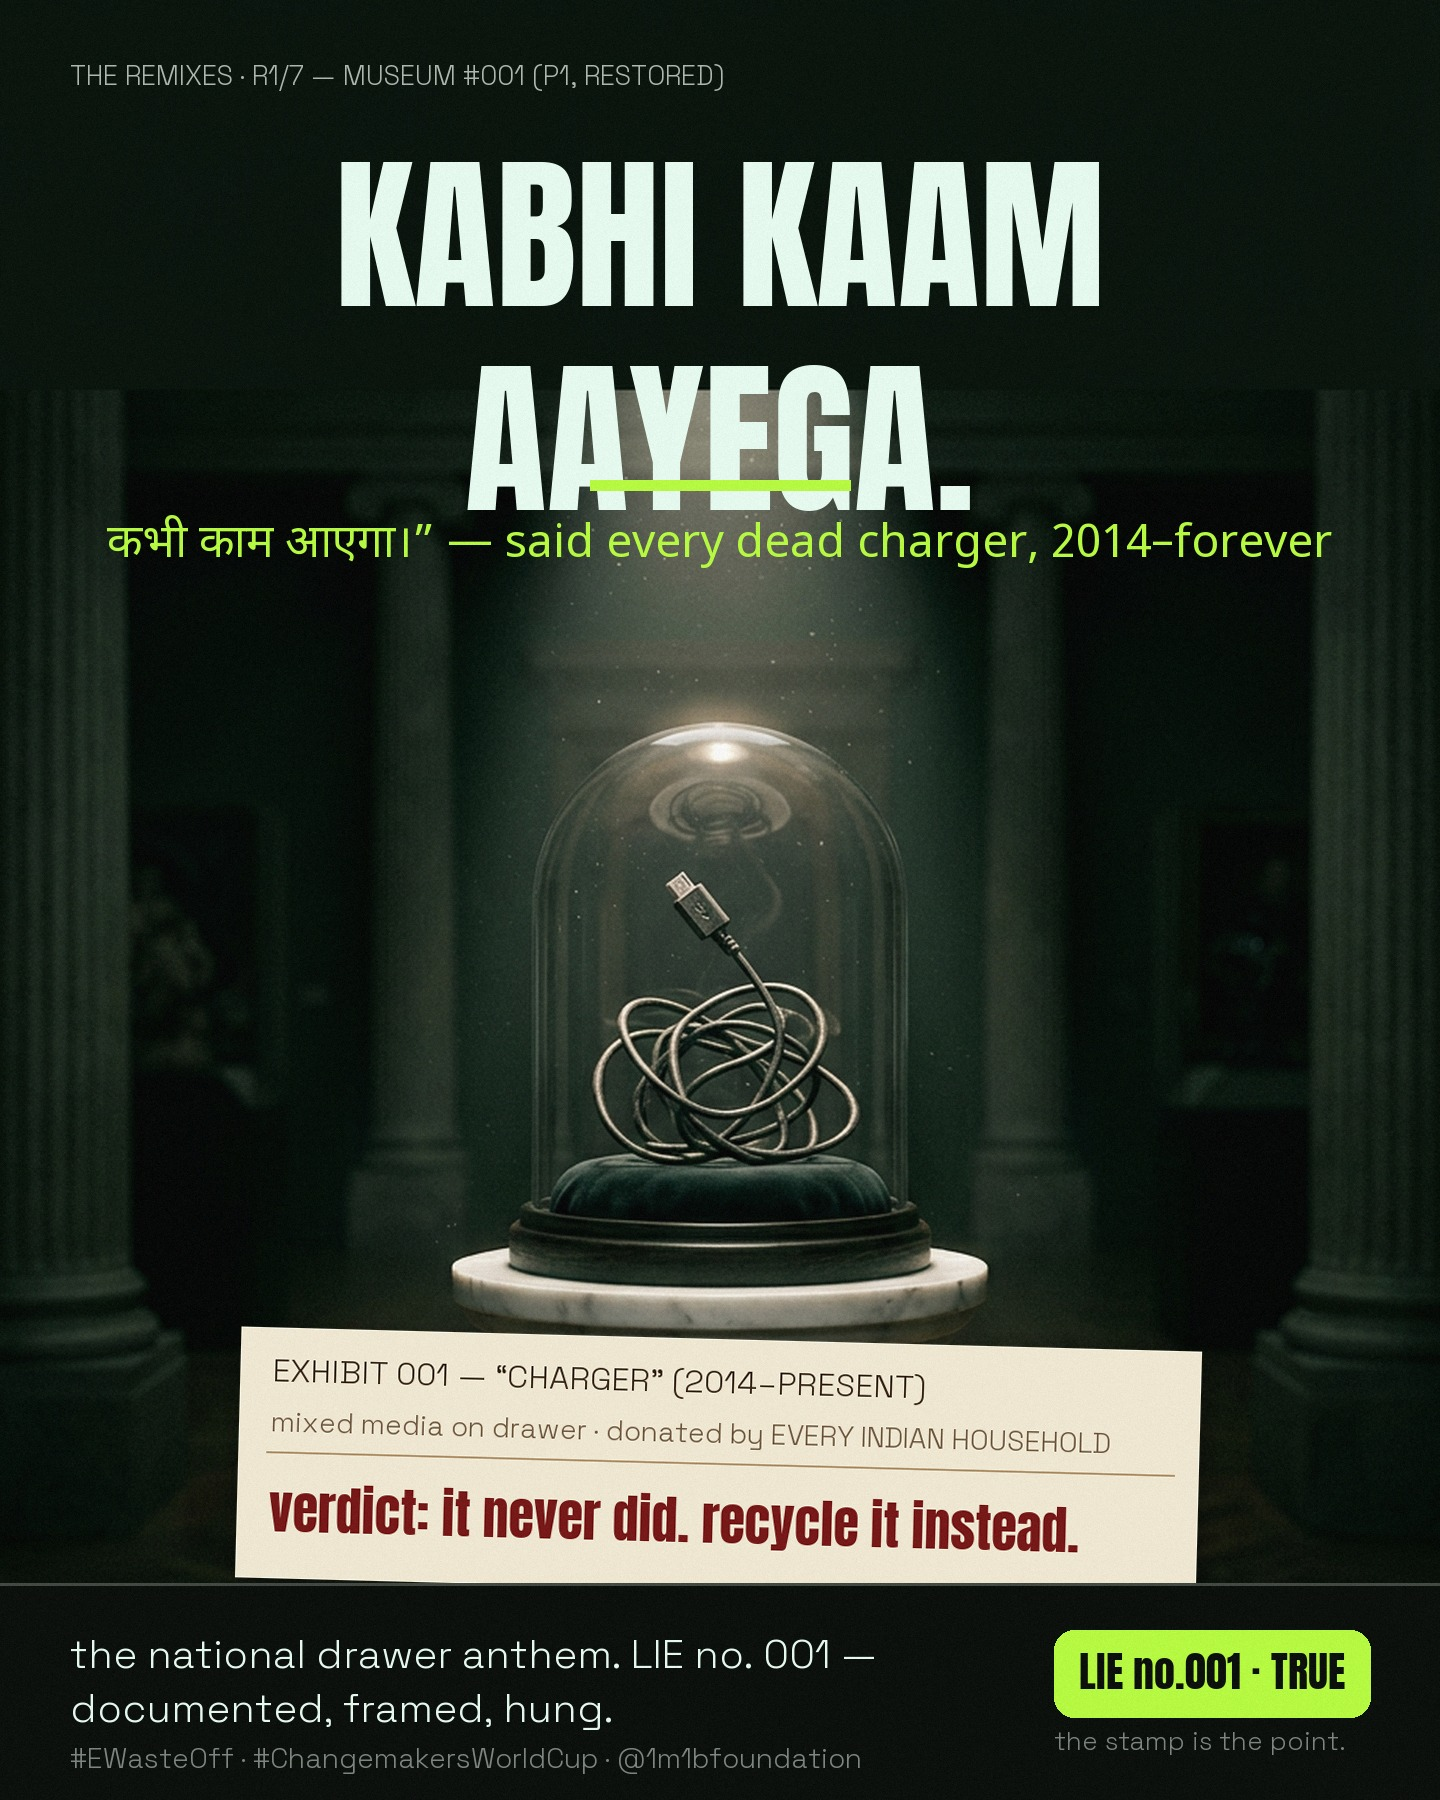
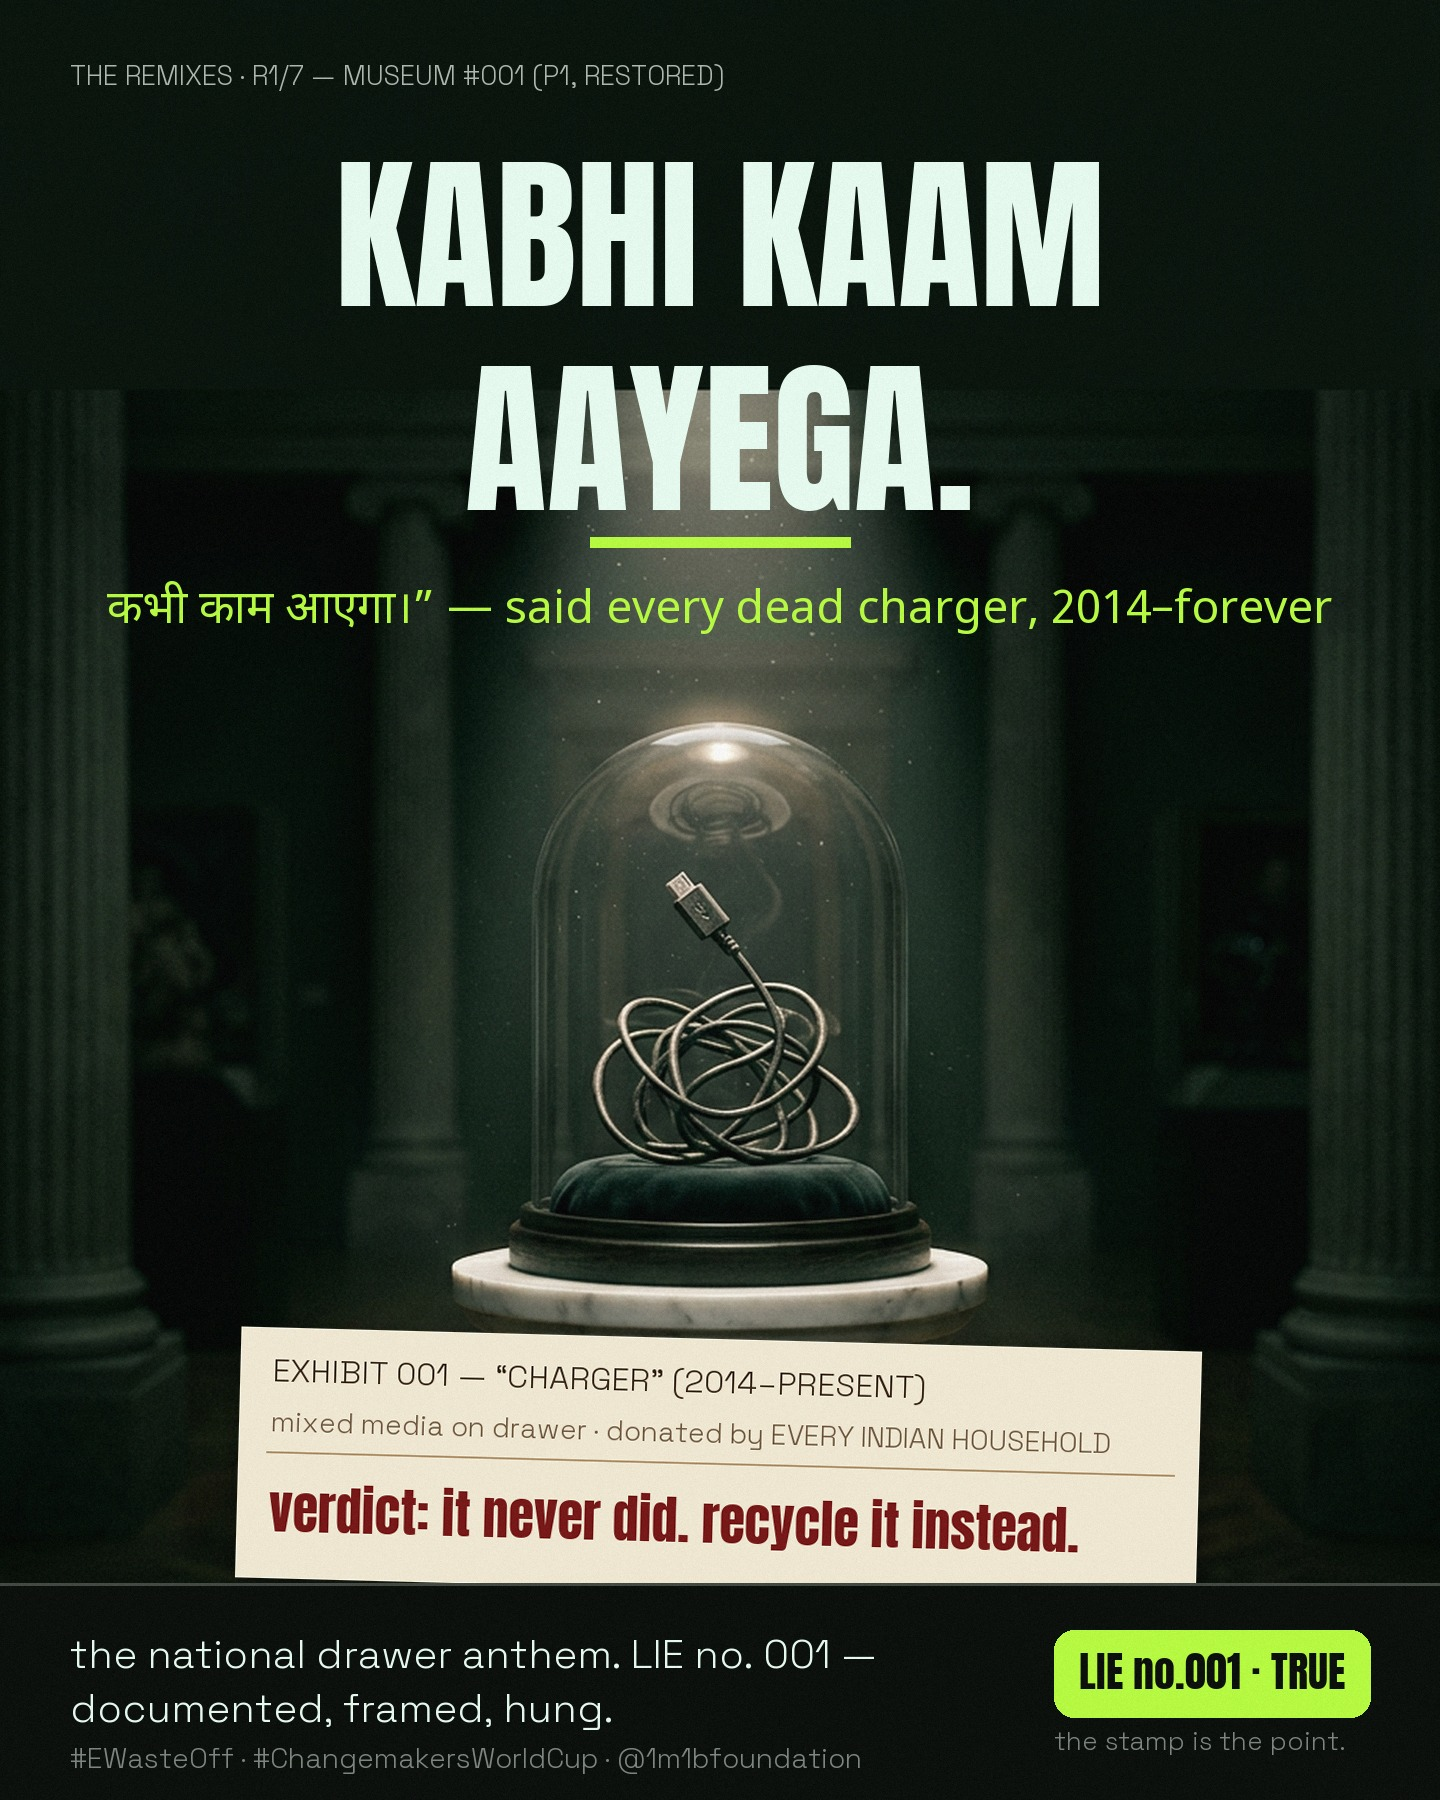
UNDERLINE EXTERMINATION + TAULO-1 BUDDY: bbox-measured underlines on all 6 posters + R1/R6 (was slicing glyph bottoms / off-center fixed bars), R1 sub was 1440px-wide (autosized to 1300), P6 3rd headline line overlapped shelf art (now 2 lines), all 21 posts re-verified via zoom crops, QC sheets + MA

Changed region(s): [[0.3438, 0.2489, 0.9375, 0.3422], [0.0625, 0.28, 0.2812, 0.3422]]

diff --git a/vikaas-hq/studio/posts2_build/build_posts_v2.py b/vikaas-hq/studio/posts2_build/build_posts_v2.py
@@ -128,10 +128,14 @@ def r1():
     img.paste(art, (0,0)); d = ImageDraw.Draw(img)
     d.text((70, 58), "THE REMIXES · R1/7 — MUSEUM #001 (P1, RESTORED)", font=f_mono(27), fill=(176,186,178))
     f, sz = autosize(d, "KABHI KAAM\nAAYEGA.", f_anton, 1240, 168)
-    d.multiline_text((720, 108), "KABHI KAAM\nAAYEGA.", font=f, fill=DEW, anchor="ma", align="center", spacing=int(f.size*0.04))
-    uy = 108 + len("KABHI KAAM\nAAYEGA.".split("\n"))*f.size*1.02 + 30
-    d.rectangle([590, uy, 850, uy+10], fill=ACID)
-    d.text((720, uy+34), "कभी काम आएगा।” — said every dead charger, 2014–forever", font=f_dev(46), fill=ACID, anchor="ma")
+    _sp = int(f.size*0.04)
+    d.multiline_text((720, 108), "KABHI KAAM\nAAYEGA.", font=f, fill=DEW, anchor="ma", align="center", spacing=_sp)
+    bb = d.multiline_textbbox((720, 108), "KABHI KAAM\nAAYEGA.", font=f, anchor="ma", align="center", spacing=_sp)
+    uy = bb[3] + 26
+    d.rectangle([(bb[0]+bb[2])/2-130, uy, (bb[0]+bb[2])/2+130, uy+10], fill=ACID)
+    sub_txt = "कभी काम आएगा।” — said every dead charger, 2014–forever"
+    s_sub, _ = autosize(d, sub_txt, f_dev, 1300, 46)
+    d.text((720, uy+44), sub_txt, font=s_sub, fill=ACID, anchor="ma")
     # plaque
     card, sh = shadow_card((960, 250))
     pd_ = ImageDraw.Draw(card)
@@ -331,10 +335,11 @@ def r6():
     art = fit(art, 1440, 1690, "cover")
     img.paste(art, (0, 40)); d = ImageDraw.Draw(img)
     INKB = (58, 36, 16)
-    f, sz = autosize(d, "WANTED", f_anton, 1200, 218)
+    f, sz = autosize(d, "WANTED", f_anton, 1200, 176)
     d.text((720, 108), "WANTED", font=f, fill=INKB, anchor="ma")
-    d.rectangle([270, 118+ f.size*1.02, 1170, 118+f.size*1.02+8], fill=INKB)
-    d.text((720, 364), "THE 2014 CHARGER", font=f_anton(104), fill=INKB, anchor="ma")
+    bb = d.textbbox((720, 108), "WANTED", font=f, anchor="ma")
+    d.rectangle([bb[0]-34, bb[3]+18, bb[2]+34, bb[3]+26], fill=INKB)
+    d.text((720, bb[3]+26+14), "THE 2014 CHARGER", font=f_anton(104), fill=INKB, anchor="ma")
     d.text((720, 1296), "aliases: “kabhi kaam aayega” · “backup cable” · “woh wala grey one”", font=f_mono(33), fill=INKB, anchor="ma")
     d.text((720, 1344), "crimes: fleeing every dustbin since 2014 · occupying premium drawer real estate", font=f_mono(33), fill=INKB, anchor="ma")
     d.line([300, 1400, 1140, 1400], fill=INKB, width=3)

diff --git a/vikaas-hq/studio/posts2_build/build_posts.py b/vikaas-hq/studio/posts2_build/build_posts.py
@@ -188,11 +188,13 @@ def build_poster(fname, art_path, headline, sub, sub_dev, stamp, stamp_bg=ACID, 
     # block vertically centered in top empty zone (art empty zone ~0..500 on canvas)
     block_h = nlines * lh
     hy = max(120, 250 - block_h/2 + (60 if nlines == 3 else 0))
-    d.multiline_text((720, hy), headline, font=f, fill=DEW, anchor="ma", align="center", spacing=int(f.size*0.06))
-    # acid underline bar under block
-    uw = min(300, d.textlength(headline.split("\n")[-1], font=f) * 0.5)
-    uy = hy + block_h + 26
-    d.rectangle([720-uw/2, uy, 720+uw/2, uy+10], fill=ACID)
+    _sp = int(f.size*0.06)
+    d.multiline_text((720, hy), headline, font=f, fill=DEW, anchor="ma", align="center", spacing=_sp)
+    # acid underline bar — MEASURED off the real glyph bbox (never through letters, always centered)
+    bb = d.multiline_textbbox((720, hy), headline, font=f, anchor="ma", align="center", spacing=_sp)
+    uw = min(300, (bb[2]-bb[0]) * 0.5)
+    uy = bb[3] + 24
+    d.rectangle([(bb[0]+bb[2])/2 - uw/2, uy, (bb[0]+bb[2])/2 + uw/2, uy+10], fill=ACID)
     d.text((70, 52), fname, font=f_mono(28), fill=(170, 182, 172))
     # bottom band: sub + tags
     d.rectangle([0, 1800-150, 1440, 1800], fill=(7, 11, 8))
@@ -335,7 +337,7 @@ posts["P5_kabadi"] = build_poster("PR POST 13/14 · POSTER — THE SERIES 05",
 
 posts["P6_mummy"] = build_poster("PR POST 14/14 · POSTER — THE SERIES 06",
     f"{ART}/poster_mummy_blank.png",
-    "MUMMY'S\nMUSEUM.\nEST. FOREVER.", "",
+    "MUMMY'S\nMUSEUM.", "",
     "हर भारतीय घर की सबसे पुरानी गैलरी", "DRAMATISED · TRUE")
 
 # save

diff --git a/vikaas-hq/LOGBOOK_V14.md b/vikaas-hq/LOGBOOK_V14.md
@@ -1,0 +1,33 @@
+# LOGBOOK V14 — UNDERLINE EXTERMINATION + TAULO-1 (7 Aug 2026)
+**Orders from Aarav:** (a) finale posts still have misalignments — "text or the line below them, underdashes"; verify all. (b) New task dropped: Flash Challenge #2 — Create 1M1Bee's AI Buddy (deadline 12 Aug) — wants to get FEATURED. (c) Watch the challenge tutorial video myself via a git video downloader. (d) Find more third-party sites like imginn + download good phonks/songs myself; generated audio = "bad". (e) Ask questions if unclear.
+
+## 0. Environment resurrection (do this FIRST every fresh sandbox)
+- Local checkout had reset to base `9c3a602`; remote branch held our tip `dd10675`. **Quirk:** this sandbox's `remote.origin.fetch` only maps `main`, so plain `git fetch` won't create `origin/arena/*` refs. Working spell:
+  `git fetch origin 'refs/heads/arena/019fc480-goop:refs/remotes/origin/arena/019fc480-goop' && git reset --hard origin/arena/019fc480-goop`
+- `.studio_venv` was wiped → recreated: `python3 -m venv ~/.studio_venv && pip install pillow numpy imageio-ffmpeg soundfile scipy` (pypi reachable ✓).
+- `image-search/` cache (untracked) lost the meme blanks/photos. Re-pulled 11 assets via image_search, renamed to script-expected names. Verified originals where possible: kalm-panik-kalm = imgflip 228718970 EXACT ✓, dbf full version = 379293870 EXACT ✓, gru 5-panel = 205746517 EXACT ✓, cat HD = 211447548 EXACT ✓. Weaker replacements (log for future): drake now 300×292 (was bigger), two-buttons restoration now 640×968 (was 2400×3632), cmm now 2kj615 (was 3mfdo), screwdriver/gate/pole photos = alternates.
+- **Decision:** did NOT re-ship rebuilt memes — committed masters (built from the big originals) are strictly better. Surgical ship: only fixed posts replaced. Backups in `/tmp/masters_backup/`.
+
+## 1. UNDERLINE EXTERMINATION (his "underdashes" complaint) — root + fix
+Root family: underlines placed by *estimated* text geometry (`f.size*1.06` guesses, fixed x-ranges) — Pillow line advance ≠ size estimate, so bars landed ON glyph bottoms / off-center / through letters.
+- `build_posts.py` `build_poster`: underline now derived from `multiline_textbbox` (actual block top/bottom/center) → bar at bottom+24, centered on the real block, width = min(300, 45-50% of real block). P1–P6 rebuilt clean.
+- `build_posts_v2.py` **R1**: fixed bar `[590,850]` → bbox-driven, and the Devanagari sub line was **~1440px wide at f_dev(46)** (touching both canvas edges — likely one of the exact misalignments he saw) → autosized to ≤1300.
+- **R6**: fixed bar `[270..1170]` sliced through WANTED's lower strokes + "THE 2014 CHARGER" grazed the engraving → WANTED start 218→176, bar = textbbox width +34 below glyphs, sub at bbox+40. Clear arcs.
+- **P6**: 3-line `MUMMY'S MUSEUM. EST. FOREVER.` — 3rd line overlapped the shelf art → headline cut to 2 lines (gag moves to caption usage). 2-lines = series rhythm.
+- Verification: zoom crops of every fixed zone + regenerated `qc/` contact sheets from SHIPPED files; `MANIFEST.sha256` resealed (30 files, `sha256sum -c` = 0 failures).
+
+## 2. FLASH CHALLENGE #2 — TAULO-1 (`vikaas-hq/cwc_buddy/`)
+- Concept: **TAULO-1** — 1M1Bee's buddy, a bee-bot rebuilt literally FROM e-waste (capacitor body/bee stripes, phone-glass circuit wings, charger-LED eyes, earphone-copper antenna, weighing-dial chest, USB feet, flex-banner cape). Superpower **SCRAP-SCAN** (contents + ₹ + nearest of 15 HSPCB recyclers) + **DOORSTEP DIAL** (0→1 pickups). Mission: NO DRAWER LEFT BEHIND. Catchphrase: "Taulo karo. Weighed, not guessed." → ties the whole VIKAAS brand into the submission; if featured, viewers land on a feed that already speaks TAULO.
+- Art (generate_image): `art/taulo_hero.png` (3D hero, submission image — first try, 10/10) + `art/taulo_poster_plate.png` (riso plate w/ blank top) → composed `taulo_poster.jpg`. Self-QA caught v1's mid-canvas sub crossing wing/antenna → removed; v2 clean.
+- `BUDDY_BRIEF.md` = paste-ready name/ability/mission + Step-1 SkillsBuild tap-by-tap (link, Under 18, "Sponsored by 1M1B", code `cxuk`, channel link, completion screenshot) + featured-evening caption.
+- Tutorial video: Drive/YouTube **unreachable from sandbox** (egress 000) — honest me-limit; steps on the challenge page are self-contained; he watches on his phone.
+
+## 3. PHONK HUNT — verdict: found, vetted, REJECTED (integrity)
+- Searched GitHub (only open pipe): found `dmitriimoiseev081015-code/PhonkDiscs` — 11 full phonk .ogg (1:53–2:51, hot masters −6.6..−13 LUFS). BUT its README: "high-quality audio (Kordhell, ZXKAI, and more)" = **ripped commercial masters**; MIT license covers the mod CODE, not the songs. Shipping = copyright risk (IG mute/removal) + off-brand.
+- **Decision stands:** (1) trend-swap inside IG editor = the only clean way to real Kordhell/Dxrk (licensed by Meta; Anuj's own tactic; steps in HOW_TO_POST.md), (2) Aarav can ATTACH tracks in Arena chat (they land in `/home/user/uploads/`) → I'll master/reel them, (3) forged TR_A/B/C remain the always-safe default.
+- Egress probe log: OK = github/api/codeload/npm/pypi · blocked = Drive, YouTube, SoundCloud, filesamples, archive.org, pixabay, skillsbuild, changemakersworldcup (fetch_page/web_search still work server-side).
+
+## 4. Also answered
+- Third-party viewers (his phone): imginn (verified by us), dumpor.com, greatfon.com — use for Sunday scouts + checking how our grid renders publicly.
+- Branch state at close: 21 posts re-verified, arsenal sealed, buddy package committed.
+- Still pending: `vo_out (1).zip` for V4 v3 mix · M2 dashboard screenshot · portfolio PH3 · posting launch confirmation (Day 1 V2).

diff --git a/vikaas-hq/cwc_buddy/BUDDY_BRIEF.md b/vikaas-hq/cwc_buddy/BUDDY_BRIEF.md
@@ -1,0 +1,70 @@
+# FLASH CHALLENGE #2 — 1M1Bee's AI Buddy: **TAULO-1**
+**Deadline: 12 Aug 2026** · Goal: get FEATURED + bonus points · Track: e-waste (our religion)
+
+## Files in this folder
+| file | what it is | use |
+|---|---|---|
+| `art/taulo_hero.png` | **THE submission image** — 3D hero shot, 1408×768 | upload this when they ask for the superhero image |
+| `taulo_poster.jpg` | brand poster 1440×1800 (MEET TAULO-1) | post on Insta if featured / as a bonus flex |
+| `art/taulo_poster_plate.png` | raw riso plate (source) | keep as source |
+| this file | concept + paste-ready text + Step-1 guide | you are here |
+
+---
+
+## THE BUDDY (paste-ready answers)
+
+**Name:** TAULO-1 (तौलो — "to weigh". Friends call him **Taulo Bhai**)
+
+**What it looks like:** A little bee-bot — 1M1Bee's buddy — rebuilt from the very e-waste he fights.
+Body: a dead capacitor with bee stripes. Wings: transparent smartphone glass with live green
+circuit veins. Eyes: LED lights salvaged from old chargers. Antenna: bent copper earphone wire,
+3.5 mm jack tip. Chest: a weighing-scale dial that spins when scrap is near. Feet: USB plugs.
+Cape: an upcycled wedding-banner flex.
+
+**Special ability — SCRAP-SCAN:** Point TAULO-1 at any dead device and he shows a hologram tag:
+what's hiding inside (copper, lithium, ~0.03 g of gold per phone*), what a kabadiwala will PAY
+for it (about ₹40 — they pay YOU), and the nearest government-authorised recycler
+(15 in Haryana alone). He turns guilt into a route on a map.
+(*rough estimate — he insists on honest numbers.)
+
+**Second ability — DOORSTEP DIAL:** One buzz and the pickup is booked. The drawer empties,
+nobody leaves the sofa. Doorstep count: 0 → 1.
+
+**Mission:** **NO DRAWER LEFT BEHIND.** India has over a billion retired phones sleeping in
+drawers. TAULO-1 wakes them one weigh-in at a time: weigh, earn, recycle, repeat —
+until the e-waste mountain moves in the right direction.
+
+**Catchphrase:** *"Taulo karo. Weighed, not guessed."* 1M1Bee collects the pledges;
+TAULO-1 collects the proof.
+
+**Why this wins:** it's not a generic green robot — every body part IS e-waste, the superpower
+is literally the campaign's missing doorstep, and it ships with receipts (weighed 1.4 kg lot,
+15 HSPCB recyclers, ₹40 cash). Name + appearance + ability + mission all scream one theme: e-waste.
+
+---
+
+## STEP 1 — IBM SkillsBuild mission (YOUR part, ~30–45 min, do it TONIGHT)
+I can't register or log in for you — accounts are yours. Tap-by-tap:
+
+1. Open the **REGISTRATION LINK** from the challenge page (use ONLY that link):
+   students-auth.skillsbuild.org/signup?org=2078&mgr=603740REG&mgr2=2543286REG
+2. Age category: select **"Under age 18"**.
+3. Check that **"Sponsored by 1M1B | 1M1B"** shows on your screen. If it doesn't, stop — wrong link.
+4. If asked for a code, enter: **cxuk**
+5. Open the Learning Mission link (from the challenge page) and complete the mission:
+   students.yourlearning.ibm.com/channel/CNL_LCB_1785934317109
+6. When it says completed/100% — **screenshot the completion screen**. Keep it; it's your proof.
+7. Stuck? There's a self-registration tutorial video linked on the challenge page (Google Drive).
+   Watch it on your phone — my sandbox pipes can't reach Drive/YouTube, that's a me-limit, not a you-limit.
+
+## STEP 2 — Submit the buddy
+1. Wherever the challenge asks for the superhero → upload `art/taulo_hero.png`.
+2. Paste the name + ability + mission text from above (trim to whatever box size).
+3. If there's a post/tag mechanic: use **#1M1BeeBuddy #EWasteOff #ChangemakersWorldCup @1m1bfoundation**.
+4. Save me the submission confirmation screenshot → goes in the M2 evidence album.
+
+## If they feature us
+Post `taulo_poster.jpg` the same evening with:
+> 1M1Bee's newest buddy was built in a Gurugram drawer. literally.
+> Meet TAULO-1 — parts list: 1 capacitor, 2 phone-glass wings, 1 copper-wire antenna, 0 excuses.
+> featured by @1m1bfoundation 🐝⚡ #1M1BeeBuddy #EWasteOff
